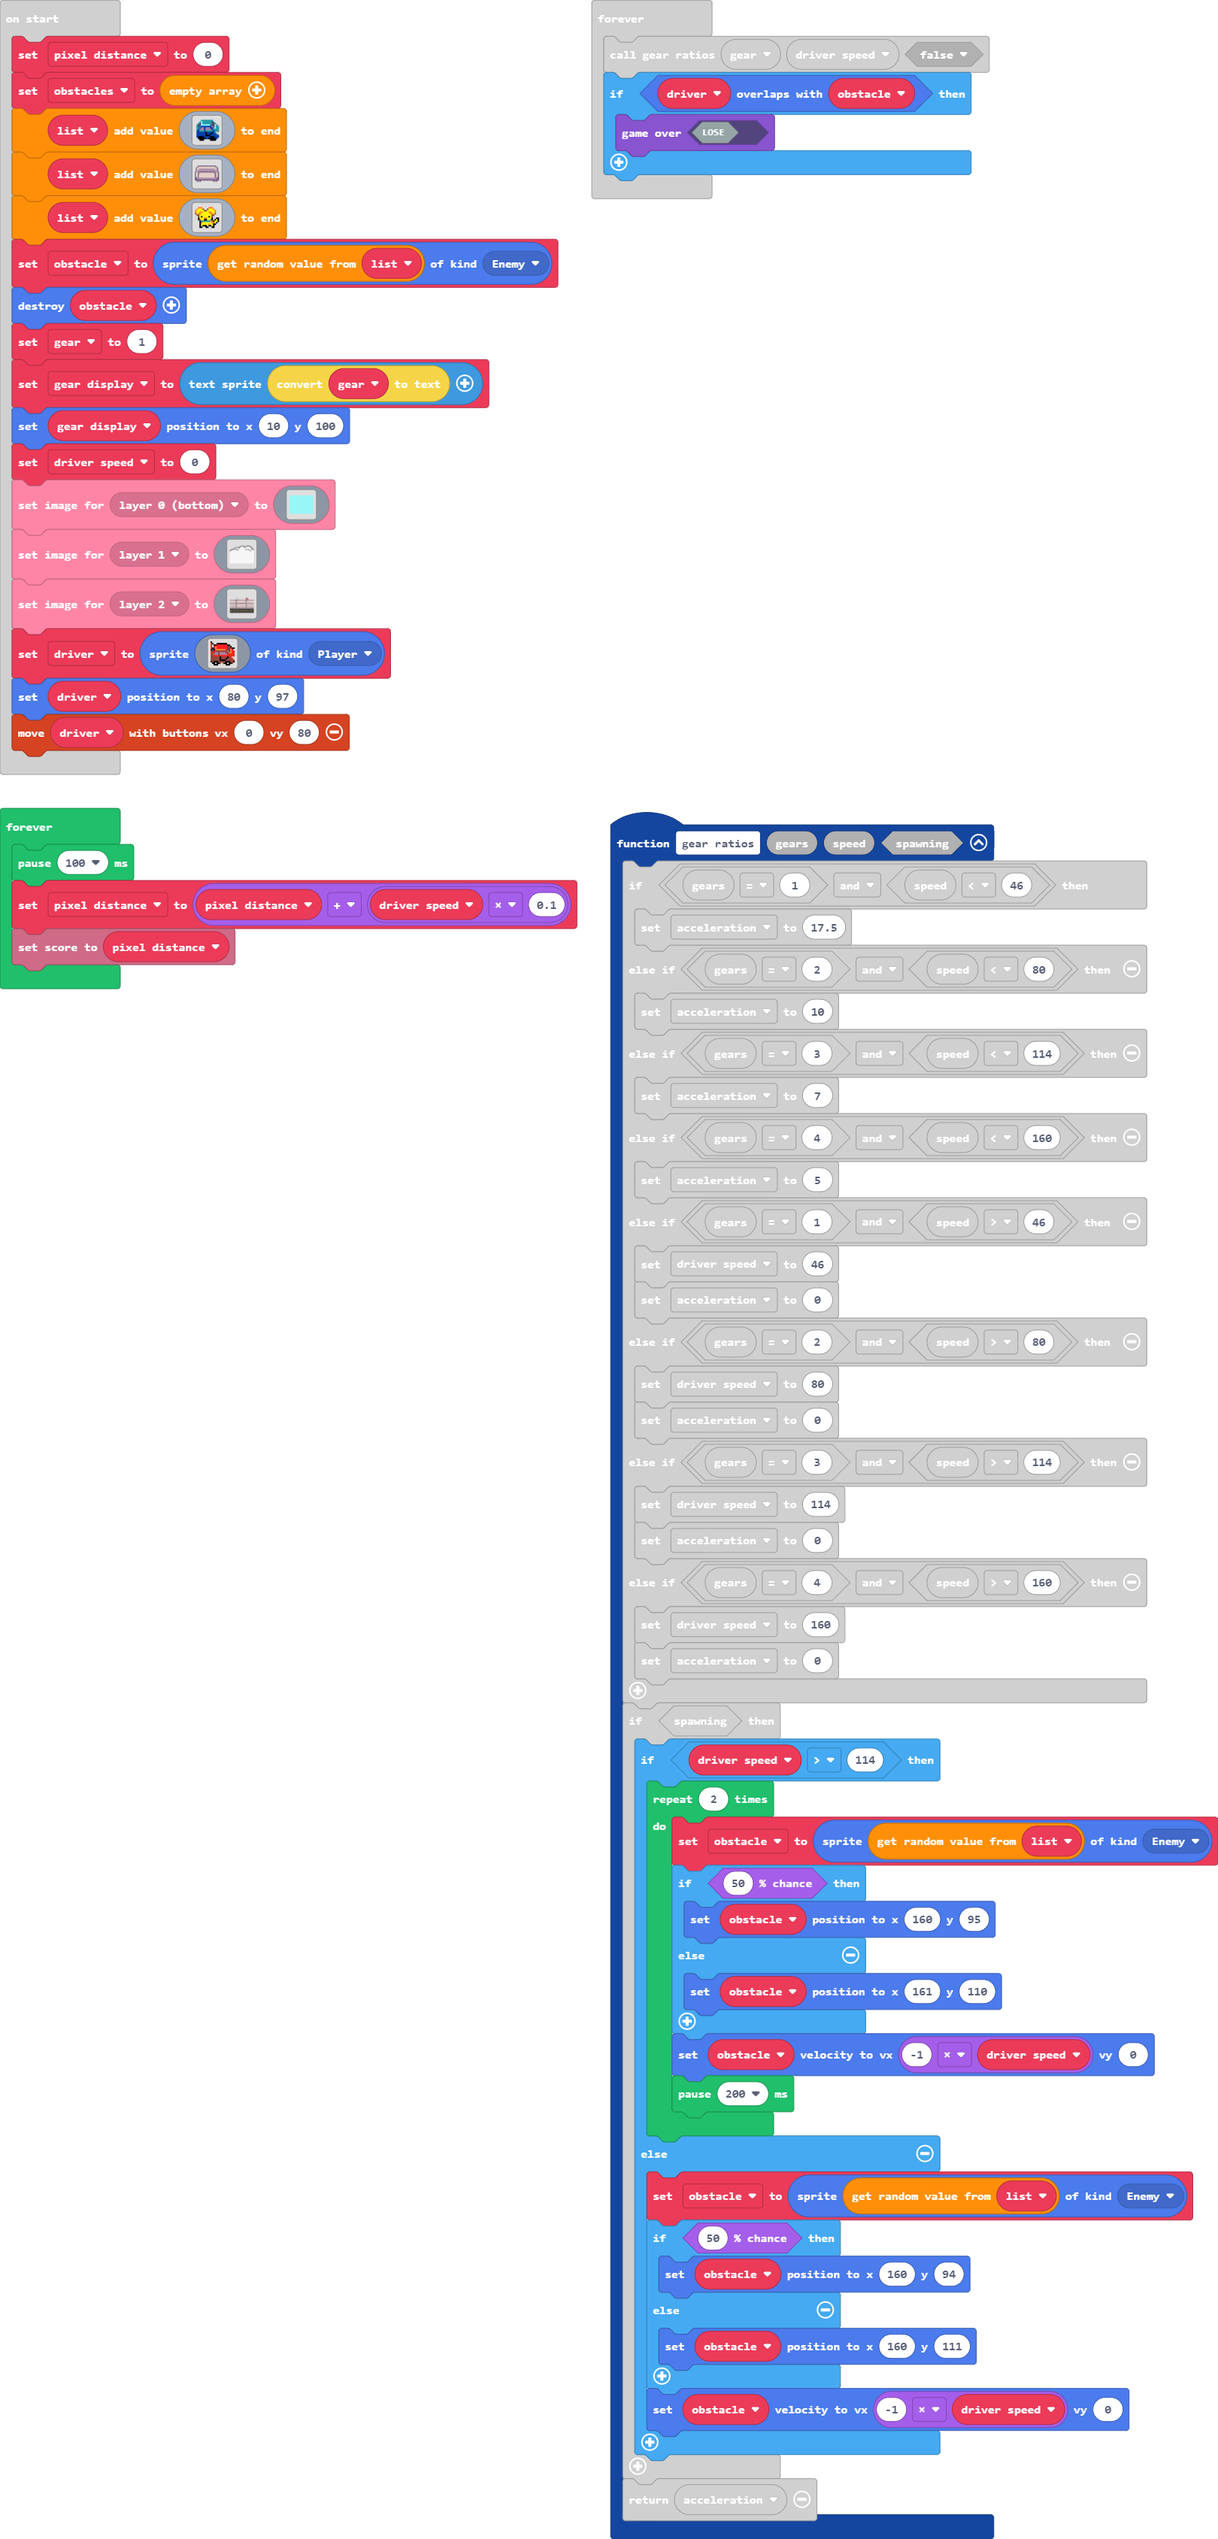
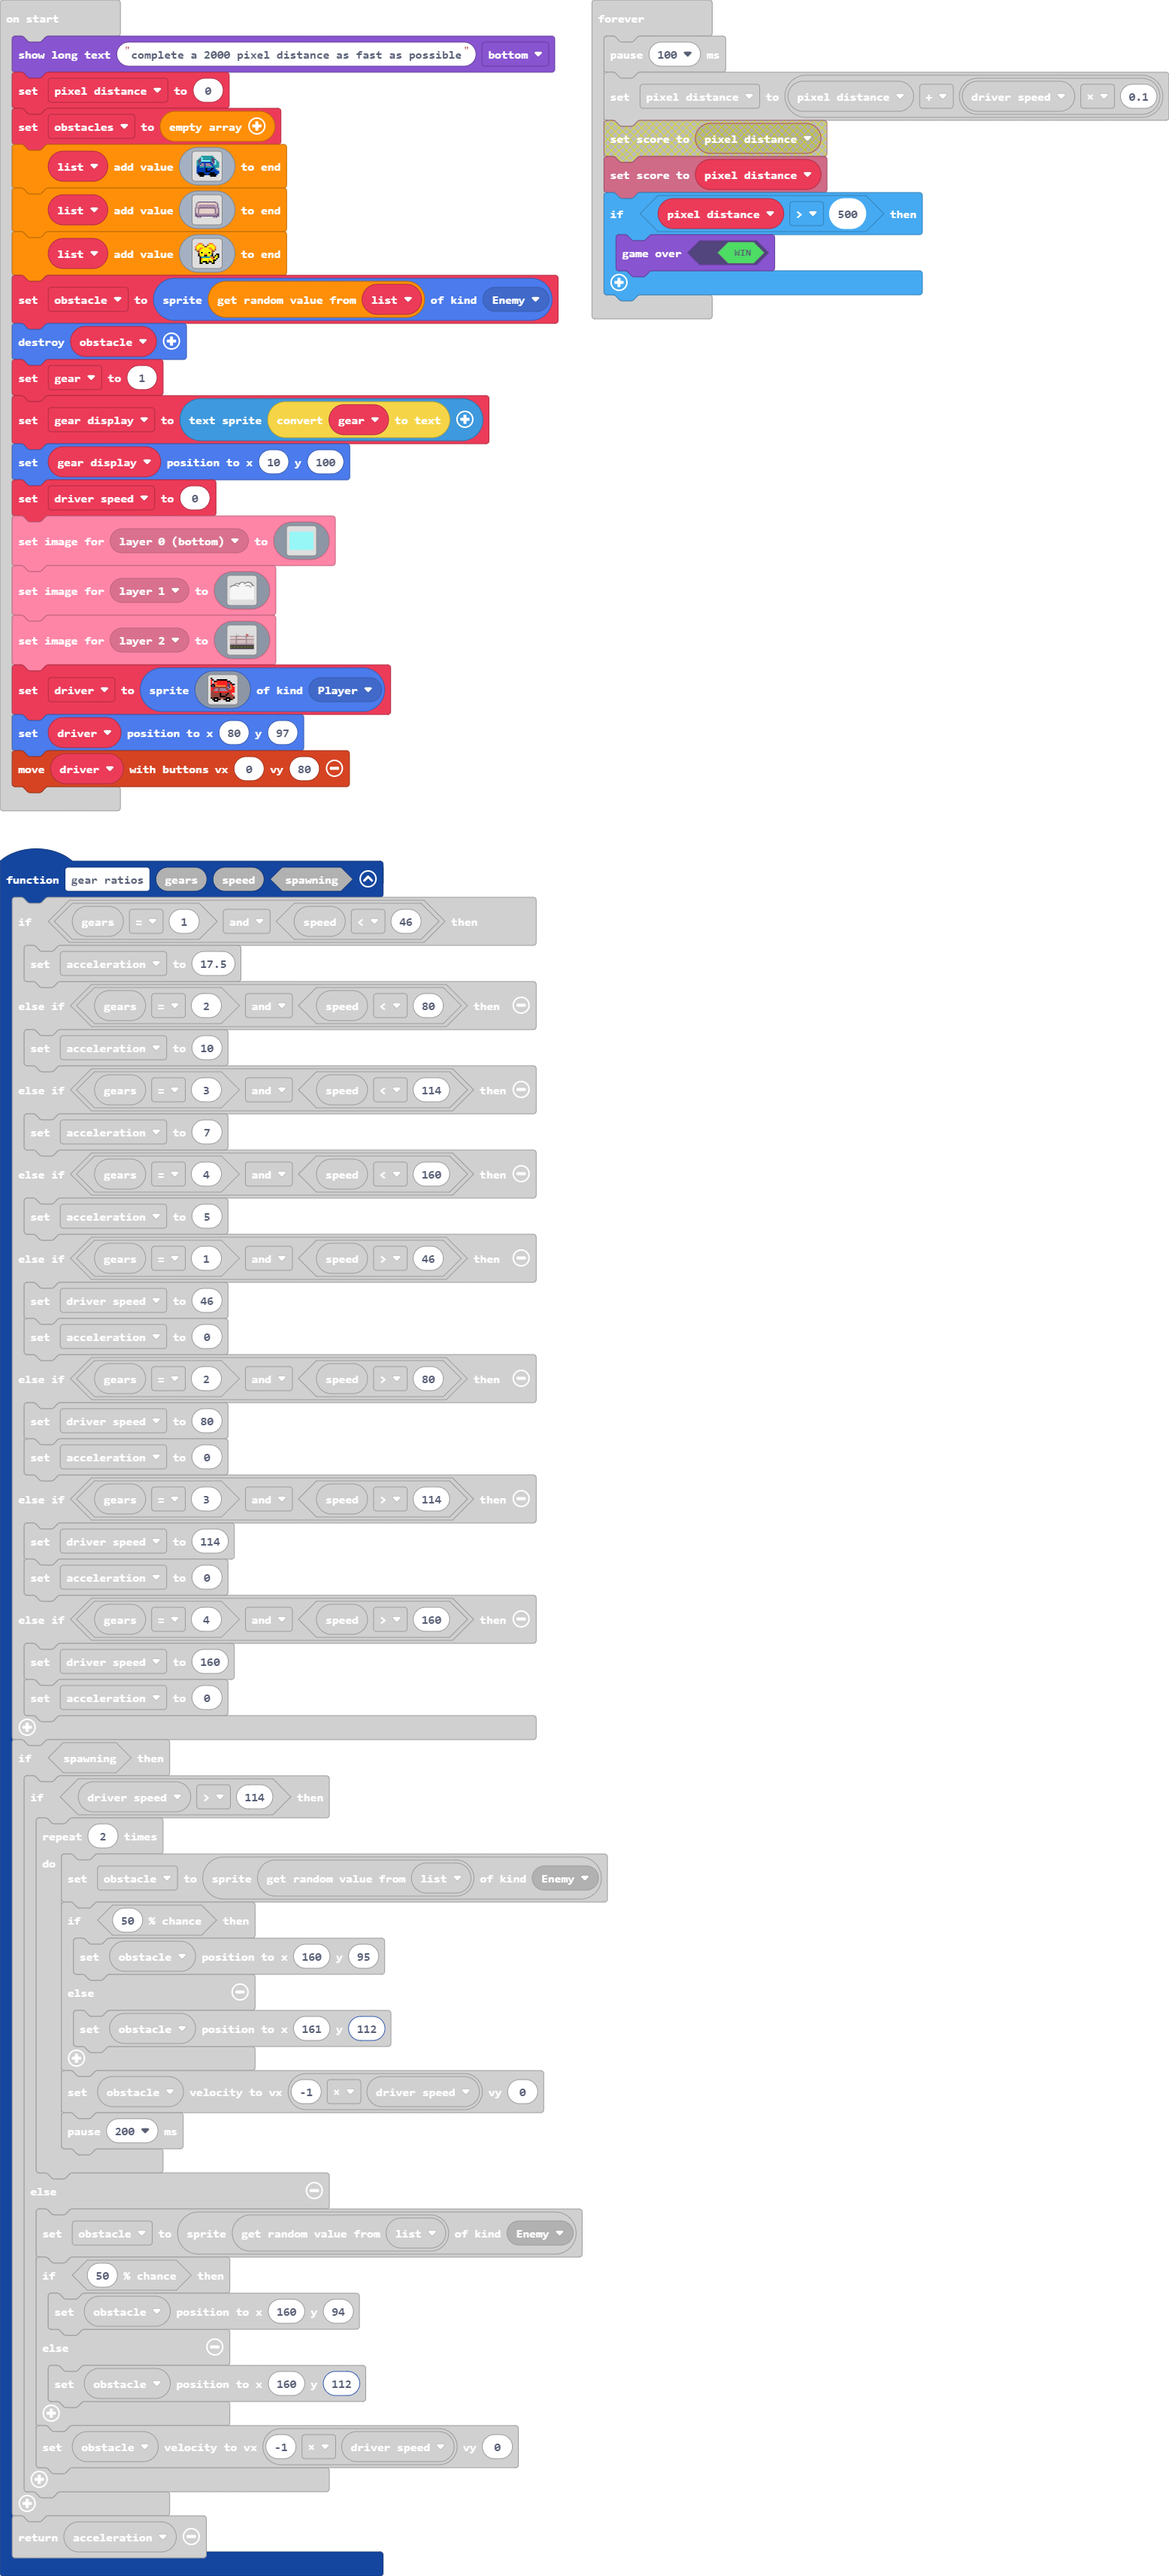
Update pxt.json, main.blocks, main.ts

diff --git a/main.ts b/main.ts
@@ -30,7 +30,7 @@ function gear_ratios (gears: number, speed: number, spawning: boolean) {
                 if (Math.percentChance(50)) {
                     obstacle.setPosition(160, 95)
                 } else {
-                    obstacle.setPosition(161, 110)
+                    obstacle.setPosition(161, 112)
                 }
                 obstacle.setVelocity(-1 * driver_speed, 0)
                 pause(200)
@@ -40,7 +40,7 @@ function gear_ratios (gears: number, speed: number, spawning: boolean) {
             if (Math.percentChance(50)) {
                 obstacle.setPosition(160, 94)
             } else {
-                obstacle.setPosition(160, 111)
+                obstacle.setPosition(160, 112)
             }
             obstacle.setVelocity(-1 * driver_speed, 0)
         }
@@ -63,6 +63,7 @@ let driver_speed = 0
 let gear = 0
 let obstacle: Sprite = null
 let list: Image[] = []
+game.showLongText("complete a 2000 pixel distance as fast as possible", DialogLayout.Bottom)
 let pixel_distance = 0
 let obstacles: number[] = []
 list.push(img`
@@ -417,6 +418,9 @@ forever(function () {
     pause(100)
     pixel_distance = pixel_distance + driver_speed * 0.1
     info.setScore(pixel_distance)
+    if (pixel_distance > 500) {
+        game.gameOver(true)
+    }
 })
 forever(function () {
     sprites.destroyAllSpritesOfKind(SpriteKind.Enemy)
